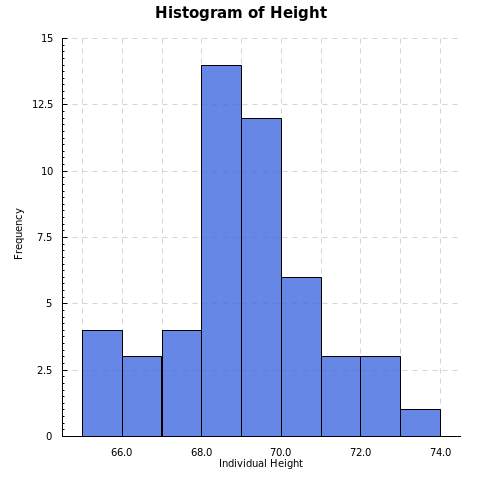
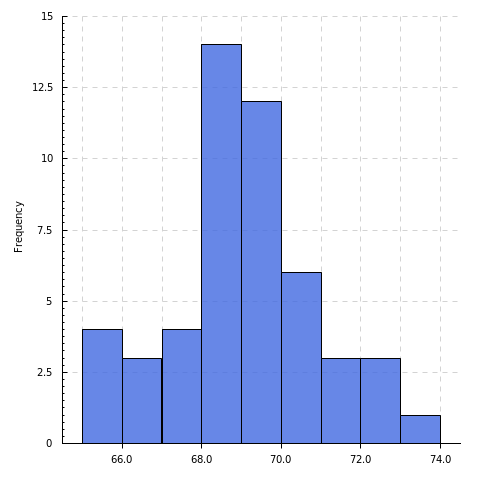
add more plots

diff --git a/README.md b/README.md
@@ -10,24 +10,37 @@ import Control.Lens
 import Data.Default
 import Graphics.Rendering.HPlot
 
-main = hist' sample (
-        hist_common .~ (
-            title .~ "Histogram of Height"
-            $ xlab .~ "Individual Height"
-            $ col .~ "royalblue"
-            $ opacity .~ 0.8 
-            $ def) 
-        $ def) "test1.png"
+main = hist' (
+    h_col .~ "royalblue"
+    $ h_opacity .~ 0.8
+    $ def) sample "test1.png"
 ```
 
 ![](examples/test1.png)
 
 ```haskell
-import Control.Lens
-import Data.Default
-import Graphics.Rendering.HPlot
+p_opt :: PointOption
+p_opt = p_shape .~ '^'
+    $ p_col .~ "red"
+    $ p_radius .~ 4
+    $ def
 
-main = points' (Nothing,sample) def "test2.png"
+l_opt :: LineOption
+l_opt = l_type .~ 6
+    $ def
+
+main = plot' def (sequence [points p_opt, line l_opt] (Nothing,sample)) "test2.png"
 ```
 
 ![](examples/test2.png)
+
+```haskell
+flower' = (_1 %~ Just $ flower)
+
+main = plot' def (sequence [
+    points (p_col .~ "red" $ p_opacity .~ 0.5 $ def),
+    line (l_col .~ "royalblue" $ def)
+    ] flower') "test3.png"
+```
+
+![](examples/test3.png)
